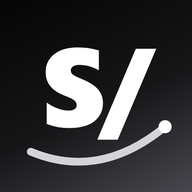
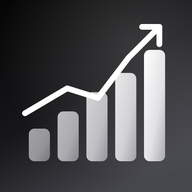
v1.9.1: nueva pantalla de carga animada (moneda a grafica) e icono nuevo

diff --git a/index.html b/index.html
@@ -10,8 +10,8 @@
 <meta name="theme-color" content="#050505">
 <meta name="robots" content="noindex,nofollow">
 <link rel="manifest" href="manifest.webmanifest">
-<link rel="apple-touch-icon" href="icon-180.png?v=4">
-<link rel="icon" href="icon-192.png?v=4">
+<link rel="apple-touch-icon" href="icon-180.png?v=5">
+<link rel="icon" href="icon-192.png?v=5">
 <title>Mis Gastos</title>
 <link rel="stylesheet" href="styles.css">
 </head>
@@ -24,9 +24,20 @@
 <div id="busy" aria-hidden="true"><div class="orbit"><i style="--k:0"></i><i style="--k:1"></i><i style="--k:2"></i><i style="--k:3"></i><i style="--k:4"></i><i style="--k:5"></i><i style="--k:6"></i><i style="--k:7"></i></div><p id="busy-t">Cargando…</p></div>
 <div id="okpop" aria-hidden="true"><svg viewBox="0 0 52 52"><path d="M14 27l8 8 16-18"/></svg></div>
 <div id="splash" aria-hidden="true">
-  <div class="lg2"><svg viewBox="0 0 100 70" stroke-width="4"><text x="50" y="50" text-anchor="middle" font-family="-apple-system,Segoe UI,Arial,sans-serif" font-weight="800" font-size="56" fill="#fff" stroke="none" letter-spacing="-2">S/</text><path d="M14 60 Q50 72 88 44" stroke="#D4D4D8" fill="none" stroke-linecap="round"/></svg></div>
-  <h1>Mis <b>Gastos</b></h1>
-  <p>Tu dinero, claro y a la mano</p>
+  <svg class="sp" viewBox="0 40 200 275" aria-hidden="true">
+    <defs><linearGradient id="spg" x1="0" y1="0" x2="1" y2="1"><stop offset="0" stop-color="#FFFFFF"/><stop offset=".6" stop-color="#E2E2E6"/><stop offset="1" stop-color="#A9A9B1"/></linearGradient></defs>
+    <g class="sp-co"><g transform="translate(100 176) scale(2.1)"><circle r="20" fill="url(#spg)"/><circle r="15.6" fill="none" stroke="#8A8A92" stroke-width="1.4" opacity=".7"/><text y="6" text-anchor="middle" font-family="Arial,Helvetica,sans-serif" font-weight="800" font-size="17" fill="#3A3A40">S/</text></g></g>
+    <rect class="sp-bar" x="30" y="236" width="22" height="64" rx="6" fill="url(#spg)" opacity=".6" style="animation-delay:.85s"/>
+    <rect class="sp-bar" x="60" y="206" width="22" height="94" rx="6" fill="url(#spg)" opacity=".7" style="animation-delay:.91s"/>
+    <rect class="sp-bar" x="90" y="176" width="22" height="124" rx="6" fill="url(#spg)" opacity=".8" style="animation-delay:.97s"/>
+    <rect class="sp-bar" x="120" y="146" width="22" height="154" rx="6" fill="url(#spg)" opacity=".9" style="animation-delay:1.03s"/>
+    <rect class="sp-bar" x="150" y="106" width="22" height="194" rx="6" fill="url(#spg)" style="animation-delay:1.09s"/>
+    <path class="sp-ln" pathLength="300" d="M24 214L71 184L101 196L131 132L168 78" stroke="#fff" stroke-width="3.6" fill="none" stroke-linecap="round" stroke-linejoin="round"/>
+    <path class="sp-ln" pathLength="300" d="M150 78H168V96" stroke="#fff" stroke-width="3.6" fill="none" stroke-linecap="round" stroke-linejoin="round"/>
+    <g class="sp-sa" fill="#fff"><path transform="translate(172 52)" d="M0 -9Q0 0 9 0Q0 0 0 9Q0 0 -9 0Q0 0 0 -9Z"/><path transform="translate(30 150) scale(.7)" d="M0 -9Q0 0 9 0Q0 0 0 9Q0 0 -9 0Q0 0 0 -9Z"/><path transform="translate(120 100) scale(.55)" d="M0 -9Q0 0 9 0Q0 0 0 9Q0 0 -9 0Q0 0 0 -9Z"/></g>
+  </svg>
+  <p class="sp-nm">Mis Gastos</p>
+  <p class="sp-sd"></p>
 </div>
 <script src="demo.js"></script>
 <script src="app.js"></script>

diff --git a/styles.css b/styles.css
@@ -245,13 +245,19 @@ label.l{display:block;font-size:11.5px;color:var(--mut);letter-spacing:.4px;text
 #splash.out{opacity:0;transform:scale(1.04);pointer-events:none}
 #splash::before{content:"";position:absolute;width:340px;height:340px;border-radius:50%;background:radial-gradient(closest-side,rgba(255,255,255,.1),transparent);animation:breathe 2.4s ease-in-out infinite}
 @keyframes breathe{50%{transform:scale(1.15);opacity:.7}}
-#splash .lg2{position:relative;width:92px;height:92px;display:grid;place-items:center;animation:rise .8s var(--ease) both}
-#splash .lg2 svg{width:110px;height:77px;fill:none;stroke-linecap:round;stroke-linejoin:round}
-#splash .lg2 path{stroke-dasharray:240;stroke-dashoffset:240;animation:draw2 1.1s .15s var(--ease) forwards}
-@keyframes draw2{to{stroke-dashoffset:0}}
-#splash h1{position:relative;color:#fff;font-size:32px;font-weight:700;letter-spacing:-.5px;animation:rise .8s .15s var(--ease) both}
-#splash h1 b{color:#E4E4E8}
-#splash p{position:relative;color:#BDBDC4;font-size:14px;animation:rise .8s .3s var(--ease) both}
+#splash{cursor:pointer}
+#splash svg.sp{position:relative;width:min(72vw,270px);height:auto;display:block;overflow:visible}
+#splash svg.sp *{transform-box:fill-box;transform-origin:center}
+@keyframes spCoin{0%{opacity:0;transform:scale(.2)}10%{opacity:1;transform:scale(1.2)}22%{transform:scale(.15,1.2)}34%{transform:scale(1.2)}46%{transform:scale(.15,1.2)}58%{transform:scale(1.2)}72%{opacity:1;transform:scale(1.75)}100%{opacity:0;transform:scale(0)}}
+@keyframes spBar{0%{transform:scaleY(0)}60%{transform:scaleY(1.07)}100%{transform:scaleY(1)}}
+@keyframes spLine{to{stroke-dashoffset:0}}
+@keyframes spStar{0%{opacity:0;transform:scale(.3)}60%{opacity:1;transform:scale(1.3)}100%{opacity:1;transform:scale(1)}}
+#splash .sp-co{animation:spCoin 1s ease-in-out both}
+#splash .sp-bar{transform-origin:50% 100%;animation:spBar .7s var(--ease) both}
+#splash .sp-ln{stroke-dasharray:300;stroke-dashoffset:300;animation:spLine .6s 1.35s var(--ease) forwards}
+#splash .sp-sa{opacity:0;animation:spStar .4s 1.8s var(--ease) forwards}
+#splash .sp-nm{position:relative;margin-top:2px;color:#9A9AA2;font-size:9.5px;font-weight:700;letter-spacing:3.4px;text-transform:uppercase;opacity:0;animation:rise .6s 1.75s var(--ease) forwards}
+#splash .sp-sd{position:relative;color:#BDBDC4;font-size:14px;min-height:20px;opacity:0;animation:rise .6s 1.95s var(--ease) forwards}
 @media (prefers-reduced-motion:reduce){*,*::before,*::after{animation-duration:.01ms!important;animation-iteration-count:1!important;transition-duration:.01ms!important}}
 
 /* selector de lugar y categoría (como las listas del atajo) */

diff --git a/app.js b/app.js
@@ -2,7 +2,7 @@
    Sin librerías. Los datos viven en tu Excel; aquí solo se guardan el enlace del script, el PIN y la última vista. */
 (function () {
   "use strict";
-  var VERSION = "1.9.0";
+  var VERSION = "1.9.1";
 
   /* ---------- utilidades ---------- */
   var $ = function (s) { return document.querySelector(s); };
@@ -1159,13 +1159,14 @@
     var s = $("#splash");
     if (nuevo || !s) { if (s && s.parentNode) s.parentNode.removeChild(s); if (!SPLASH_HTML) return; document.body.insertAdjacentHTML("beforeend", SPLASH_HTML); s = $("#splash"); }
     if (!s) return;
-    var p = s.querySelector("p"), E = S.estado; if (p) p.textContent = saludo() + (E && E.nombre ? ", " + E.nombre : "") + " " + saludoIco();
-    clearTimeout(S.tsp);
-    S.tsp = setTimeout(function () { s.classList.add("out"); setTimeout(function () { if (s.parentNode) s.parentNode.removeChild(s); }, 650); }, reducido() ? 250 : (ms || 1250));
+    var p = s.querySelector(".sp-sd"), E = S.estado; if (p) p.textContent = saludo() + (E && E.nombre ? ", " + E.nombre : "") + " " + saludoIco();
+    function salir() { clearTimeout(S.tsp); s.classList.add("out"); setTimeout(function () { if (s.parentNode) s.parentNode.removeChild(s); }, 650); }
+    s.addEventListener("click", salir);                                         // un toque y pasa de largo
+    clearTimeout(S.tsp); S.tsp = setTimeout(salir, reducido() ? 250 : (ms || 2400));
   }
   function inicioNuevo() {
     S.tab = PREF.abrirRegistrar ? "registrar" : "inicio"; S.sub = null; S.vk = null; S.anim = true; cerrarHoja();
-    if (!S.locked) splashMostrar(true, 1050);
+    if (!S.locked) splashMostrar(true, 2200);
   }
 
   /* ---------- acciones ---------- */

diff --git a/sw.js b/sw.js
@@ -1,6 +1,6 @@
 /* Service worker: guarda la "cáscara" de la app para que abra al instante y sin conexión.
    Los datos NUNCA se guardan aquí: las llamadas al script de Google no pasan por este caché. */
-const VERSION = "mis-gastos-v21";
+const VERSION = "mis-gastos-v22";
 const ARCHIVOS = ["./", "index.html", "styles.css", "app.js", "demo.js", "manifest.webmanifest", "icon-180.png", "icon-192.png", "icon-512.png", "jsqr.js"];
 
 self.addEventListener("install", (e) => {

diff --git a/LEEME.md b/LEEME.md
@@ -97,3 +97,6 @@ En Registrar, «📷 Escanear QR» lee el código QR de la boleta o factura elec
 - Al volver a la app después de unos segundos, empieza en Inicio con la bienvenida y las animaciones.
 - Más → «Informes y gráficas»: línea del mes día por día (con proyección), mapa de calor del mes, lugares donde más gastas y evolución de una categoría.
 - Más → «Logros»: medallas por tu constancia (racha de días registrando, meta cumplida, dentro de topes…).
+
+## Pantalla de carga e icono · v1.9.1
+Nueva pantalla de carga animada (moneda → columnas → línea de crecimiento) con el nombre en pequeño y tu saludo; un toque la salta. Nuevo icono: para verlo, quita la app de la pantalla de inicio del iPhone y vuelve a agregarla.
